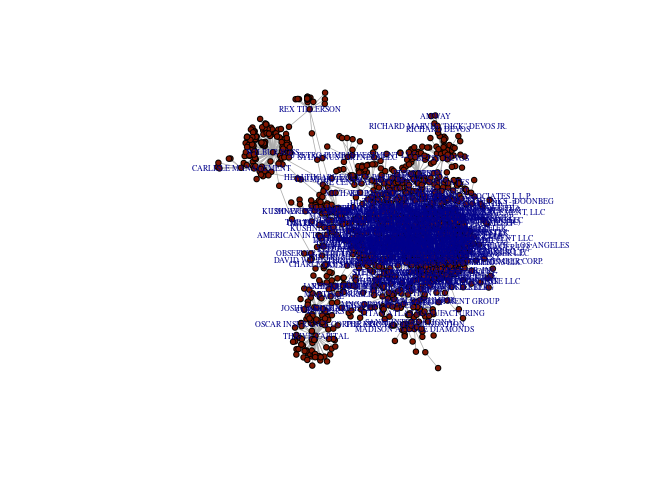
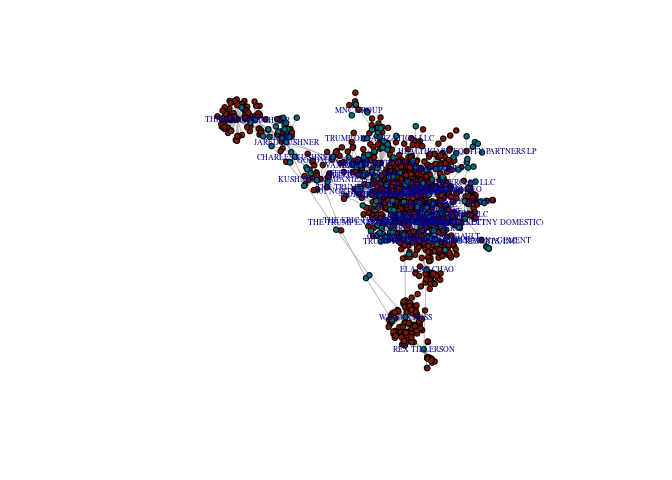
Fixed an issue with vertex type assignment

Changed region(s): [[0.2812, 0.1875, 0.8438, 0.7812]]

diff --git a/README.md b/README.md
@@ -1,16 +1,4 @@
     library('igraph')
-
-    ## 
-    ## Attaching package: 'igraph'
-
-    ## The following objects are masked from 'package:stats':
-    ## 
-    ##     decompose, spectrum
-
-    ## The following object is masked from 'package:base':
-    ## 
-    ##     union
-
     library('knitr')
 
     # knitr options
@@ -66,10 +54,12 @@
     g <- graph_from_data_frame(dat)
 
     # assign vertex types
-    V(g)$type <- ifelse(V(g) %in% people, 'person', 'organization')
+    V(g)$type <- ifelse(V(g)$name %in% people, 'person', 'organization')
 
-    # vertex styles
-    vertex_labels <- ifelse(degree(g) > 2, V(g)$name, NA)
+    # only label vertices with more than 5 edges connecting to them
+    vertex_labels <- ifelse(degree(g) > 5, V(g)$name, NA)
+
+    # color vertices based on type (person/organization)
     vertex_colors <- ifelse(V(g)$type == 'person', '#016b80', '#7f1601')
 
     coords = layout.fruchterman.reingold(g)
